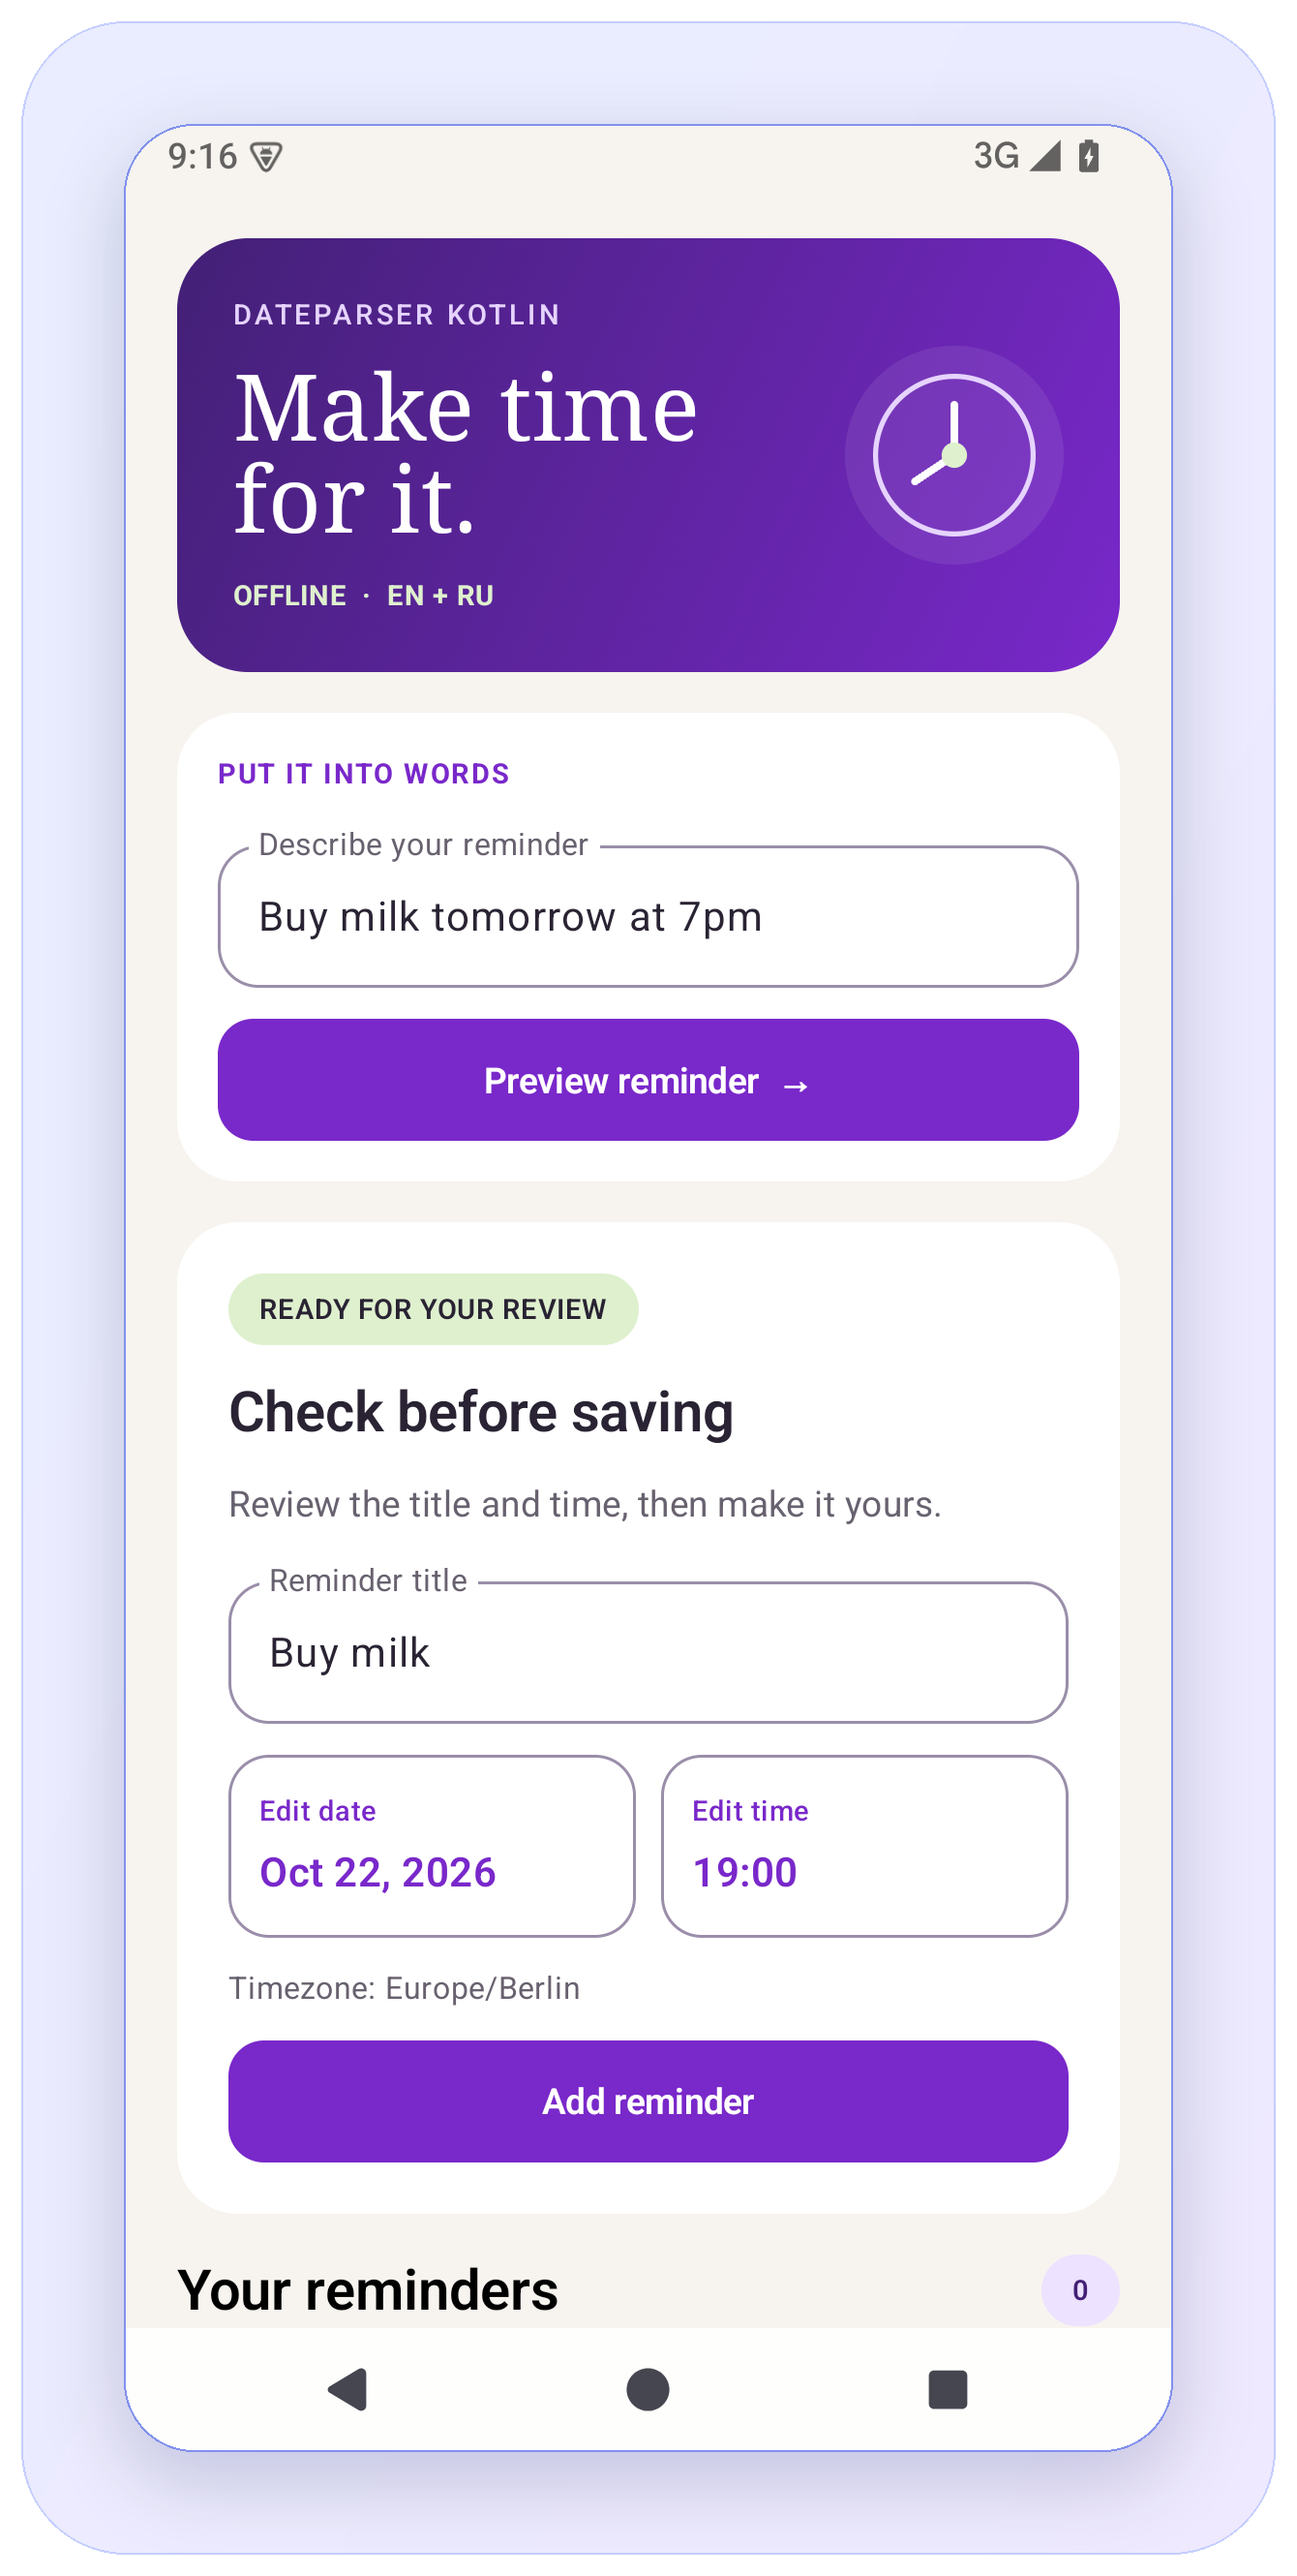
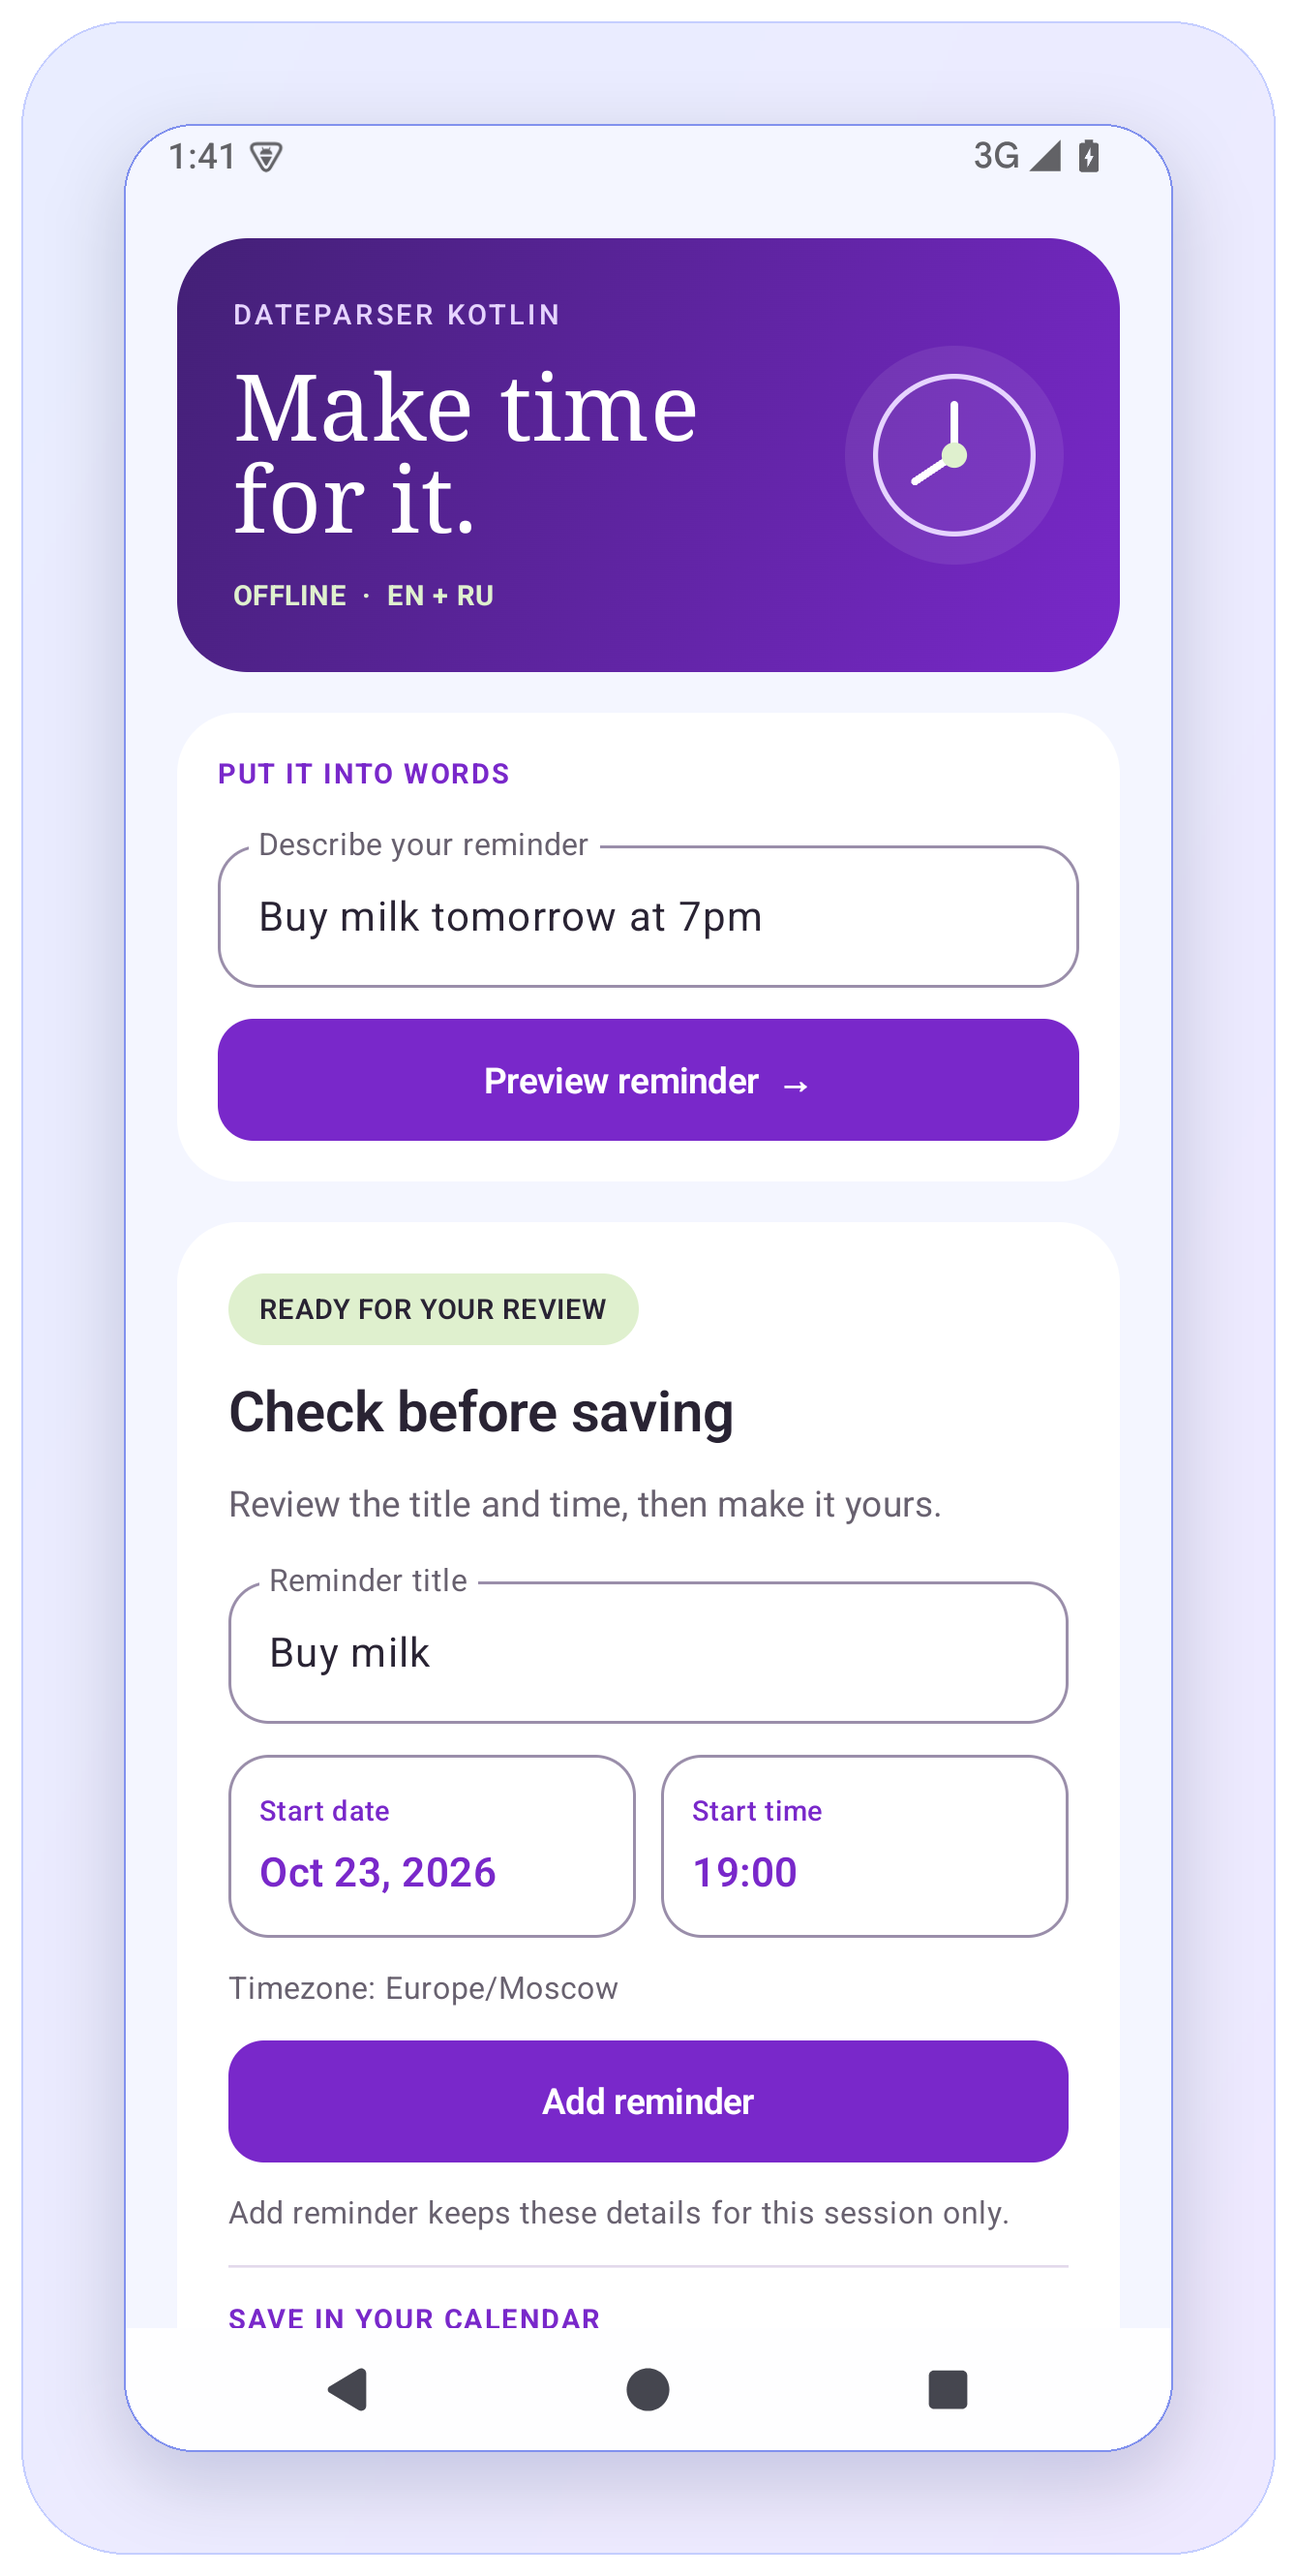
Use a cool blue background in the Android demo

diff --git a/app/src/main/java/com/example/dateparser/ReminderTheme.kt b/app/src/main/java/com/example/dateparser/ReminderTheme.kt
@@ -10,7 +10,7 @@ private val reminderColors = lightColorScheme(
     onPrimary = Color.White,
     primaryContainer = Color(0xFFEDE2FF),
     onPrimaryContainer = Color(0xFF432076),
-    background = Color(0xFFF7F4EF),
+    background = Color(0xFFF4F6FF),
     onBackground = Color(0xFF292333),
     surface = Color.White,
     onSurface = Color(0xFF292333),
